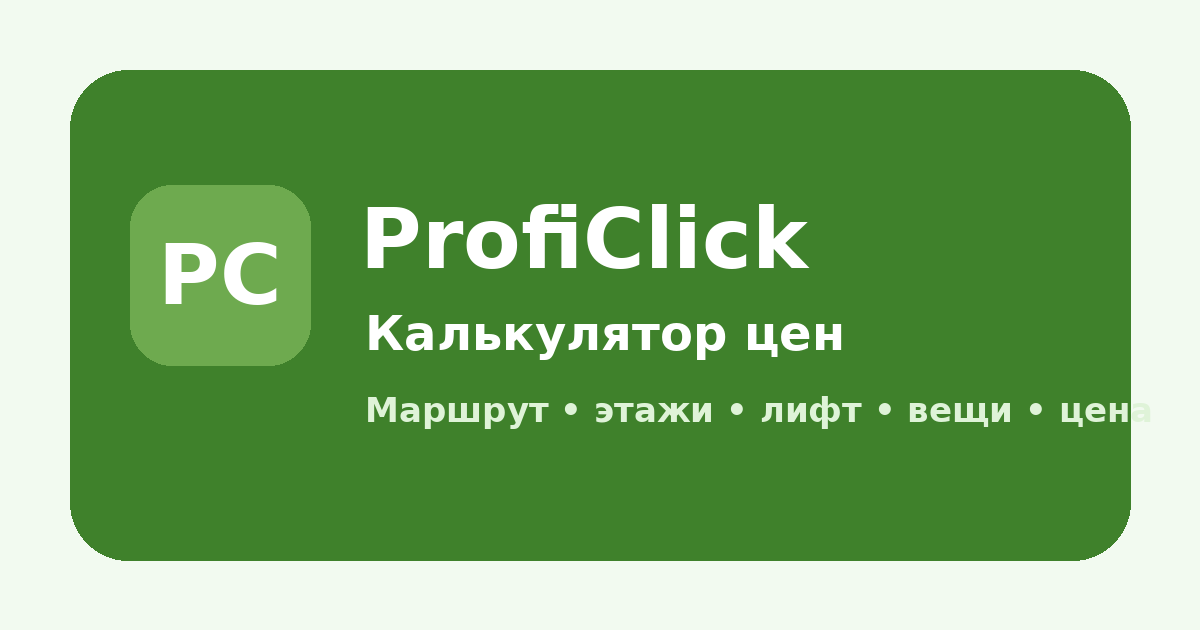
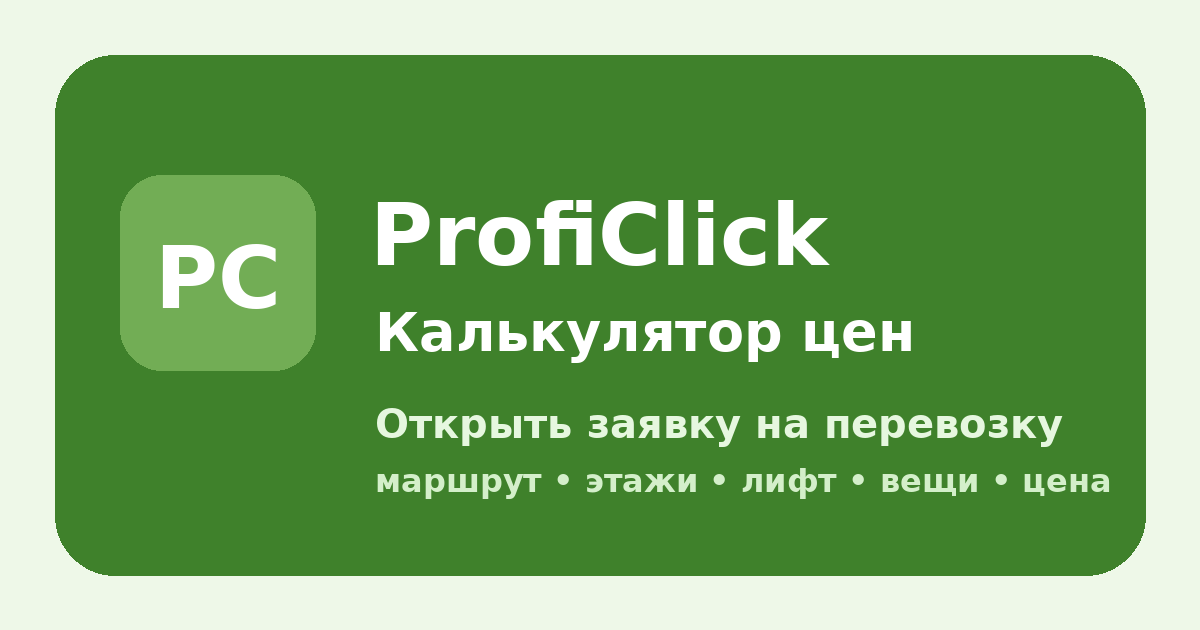
Add files via upload

diff --git a/index.html b/index.html
@@ -8,10 +8,10 @@
 <meta name="apple-mobile-web-app-title" content="ProfiCalc">
 <meta name="apple-mobile-web-app-status-bar-style" content="black-translucent">
 <link rel="manifest" href="manifest.json">
-<title>ProfiClick Calculator v7.4.45</title>
+<title>ProfiClick Calculator v7.4.46</title>
 <meta property="og:type" content="website">
-<meta property="og:title" content="ProfiClick — калькулятор цен">
-<meta property="og:description" content="Быстрый расчёт перевозки: маршрут, этажи, лифт, вещи и примерная цена.">
+<meta property="og:title" content="ProfiClick — заказ на перевозку">
+<meta property="og:description" content="Открыть заявку, посмотреть маршрут, этажи, вещи и примерную цену.">
 <meta property="og:image" content="https://proficlick-calculator.vercel.app/og-proficlick.png">
 <meta property="og:url" content="https://proficlick-calculator.vercel.app">
 <meta name="twitter:card" content="summary_large_image">
@@ -136,7 +136,7 @@ html[dir="rtl"] .itemsBtn{text-align:right}
 <div class="toast" id="toast">Скопировано</div>
 
 <script>
-const APP_VERSION = "v7.4.45";
+const APP_VERSION = "v7.4.46";
 const APP_URL = "https://proficlick-calculator.vercel.app";
 const langs = ["ru","en","he"];
 let lang = "ru";
@@ -280,74 +280,59 @@ function quoteText(){
   const b = `${cityName($("cityB").value)}${$("addrB").value ? ", "+$("addrB").value : ""}`;
 
   if(lang==="en"){
-    return `🟢 *ProfiClick*
-Price calculator
-${respondUrl}
+    return `🚚 *ProfiClick moving request*
+#${id} · ${$("moveDate").value || "-"} · ${$("moveTime").value || ""}
 
-╭──────────────╮
-🚚 *Moving request*
-#${id}
-📅 ${$("moveDate").value || "-"} · ${$("moveTime").value || ""}
+📍 A: ${a}
+Floor ${$("floorA").value} · Elevator ${$("liftA").checked ? "yes" : "no"} · ${$("hardA").checked ? "difficult access" : "normal access"}
 
-📍 *A*  ${a}
-🏢 Floor ${$("floorA").value} · Elevator ${$("liftA").checked ? "yes" : "no"} · Access ${$("hardA").checked ? "hard" : "normal"}
+📍 B: ${b}
+Floor ${$("floorB").value} · Elevator ${$("liftB").checked ? "yes" : "no"} · ${$("hardB").checked ? "difficult access" : "normal access"}
 
-📍 *B*  ${b}
-🏢 Floor ${$("floorB").value} · Elevator ${$("liftB").checked ? "yes" : "no"} · Access ${$("hardB").checked ? "hard" : "normal"}
-
-📦 *Items:* ${picked.length} item(s)
-${picked.slice(0,7).join("\n")}${picked.length>7 ? "\n• +" + (picked.length-7) + " more" : ""}
+📦 Items: ${picked.length}
+${picked.slice(0,6).join("\n")}${picked.length>6 ? "\n• +" + (picked.length-6) + " more" : ""}
 
 💰 *Approx. price: ₪${c.total}*
-⏱ Respond in ProfiClick within 1 hour
-╰──────────────╯`;
+
+Open / respond:
+${respondUrl}`;
   }
 
   if(lang==="he"){
-    return `🟢 *ProfiClick*
-מחשבון מחירים
-${respondUrl}
+    return `🚚 *בקשת הובלה ProfiClick*
+#${id} · ${$("moveDate").value || "-"} · ${$("moveTime").value || ""}
 
-╭──────────────╮
-🚚 *בקשת הובלה*
-#${id}
-📅 ${$("moveDate").value || "-"} · ${$("moveTime").value || ""}
+📍 א׳: ${a}
+קומה ${$("floorA").value} · מעלית ${$("liftA").checked ? "כן" : "לא"} · ${$("hardA").checked ? "גישה קשה" : "גישה רגילה"}
 
-📍 *א׳*  ${a}
-🏢 קומה ${$("floorA").value} · מעלית ${$("liftA").checked ? "כן" : "לא"} · גישה ${$("hardA").checked ? "קשה" : "רגילה"}
+📍 ב׳: ${b}
+קומה ${$("floorB").value} · מעלית ${$("liftB").checked ? "כן" : "לא"} · ${$("hardB").checked ? "גישה קשה" : "גישה רגילה"}
 
-📍 *ב׳*  ${b}
-🏢 קומה ${$("floorB").value} · מעלית ${$("liftB").checked ? "כן" : "לא"} · גישה ${$("hardB").checked ? "קשה" : "רגילה"}
-
-📦 *פריטים:* ${picked.length}
-${picked.slice(0,7).join("\n")}${picked.length>7 ? "\n• +" + (picked.length-7) : ""}
+📦 פריטים: ${picked.length}
+${picked.slice(0,6).join("\n")}${picked.length>6 ? "\n• +" + (picked.length-6) : ""}
 
 💰 *מחיר משוער: ₪${c.total}*
-⏱ מענה ב‑ProfiClick בתוך שעה
-╰──────────────╯`;
+
+פתיחה / מענה:
+${respondUrl}`;
   }
 
-  return `🟢 *ProfiClick*
-Калькулятор цен
-${respondUrl}
+  return `🚚 *ProfiClick — заявка на перевозку*
+#${id} · ${$("moveDate").value || "-"} · ${$("moveTime").value || ""}
 
-╭──────────────╮
-🚚 *Заявка на перевозку*
-#${id}
-📅 ${$("moveDate").value || "-"} · ${$("moveTime").value || ""}
+📍 A: ${a}
+Этаж ${$("floorA").value} · Лифт ${$("liftA").checked ? "да" : "нет"} · ${$("hardA").checked ? "сложный доступ" : "обычный доступ"}
 
-📍 *A*  ${a}
-🏢 Этаж ${$("floorA").value} · Лифт ${$("liftA").checked ? "да" : "нет"} · Доступ ${$("hardA").checked ? "сложный" : "обычный"}
+📍 B: ${b}
+Этаж ${$("floorB").value} · Лифт ${$("liftB").checked ? "да" : "нет"} · ${$("hardB").checked ? "сложный доступ" : "обычный доступ"}
 
-📍 *B*  ${b}
-🏢 Этаж ${$("floorB").value} · Лифт ${$("liftB").checked ? "да" : "нет"} · Доступ ${$("hardB").checked ? "сложный" : "обычный"}
-
-📦 *Вещи:* ${picked.length} поз.
-${picked.slice(0,7).join("\n")}${picked.length>7 ? "\n• +" + (picked.length-7) + " ещё" : ""}
+📦 Вещи: ${picked.length}
+${picked.slice(0,6).join("\n")}${picked.length>6 ? "\n• +" + (picked.length-6) + " ещё" : ""}
 
 💰 *Примерная цена: ₪${c.total}*
-⏱ Откликнуться в ProfiClick в течение 1 часа
-╰──────────────╯`;
+
+Открыть заказ / откликнуться:
+${respondUrl}`;
 }
 
 function copyCalc(){

diff --git a/sw.js b/sw.js
@@ -1,4 +1,4 @@
-const CACHE='proficlick-calc-v7-4-45';
-self.addEventListener('install',e=>{self.skipWaiting();e.waitUntil(caches.open(CACHE).then(c=>c.addAll(['./','./index.html','./manifest.json','./og-proficlick.png']).catch(()=>caches.open(CACHE).then(c=>c.addAll(['./','./index.html','./manifest.json'])))));});
+const CACHE='proficlick-calc-v7-4-46';
+self.addEventListener('install',e=>{self.skipWaiting();e.waitUntil(caches.open(CACHE).then(c=>c.addAll(['./','./index.html','./manifest.json','./og-proficlick.png'])));});
 self.addEventListener('activate',e=>{e.waitUntil(caches.keys().then(keys=>Promise.all(keys.map(k=>k!==CACHE?caches.delete(k):null))).then(()=>self.clients.claim()));});
 self.addEventListener('fetch',e=>{e.respondWith(fetch(e.request).catch(()=>caches.match(e.request)));});